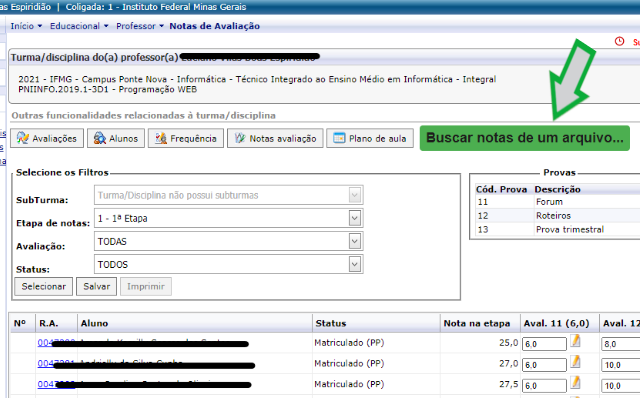
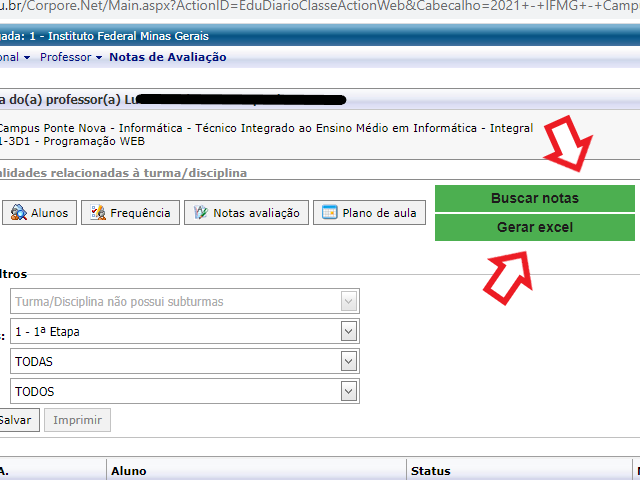
update images

diff --git a/popup/popup.html b/popup/popup.html
@@ -12,10 +12,10 @@
     </header>
 
     <div class="w3-container">
-        <p class="w3-small">Digite suas notas no excel e salve com a extensão ".xlsx" ou ".xls".</p>
+        <p class="w3-small">Digite suas notas em uma planilha e salve com a extensão ".xlsx" ou ".xls" ou salve em uma planilha a partir do Conecta.</p>
         <p class="w3-small">Dentro da planilha você deverá seguir algumas regrinhas para a confecção do cabaçalho (primeira linha) do arquivo.</p>
         <p class="w3-small">Para as avaliações crie colunas conforme as setas Vermelhas e utilize o mesmo "Cód. Prova" (circulados de verde na imagem) criado para suas avaliações no Conecta.</p>
-        <p class="w3-small">Você também deve informar em uma coluna com o título RA (seta preta) todos os registros acadêmicos dos alunos.</p>
+        <p class="w3-small">Você também deve informar em uma coluna com o título R.A. (seta preta) todos os registros acadêmicos dos alunos.</p>
         <p class="w3-small">Confira a imagem abaixo.</p>
 
         <img src="../imgs/excel.png" width="100%"  >
